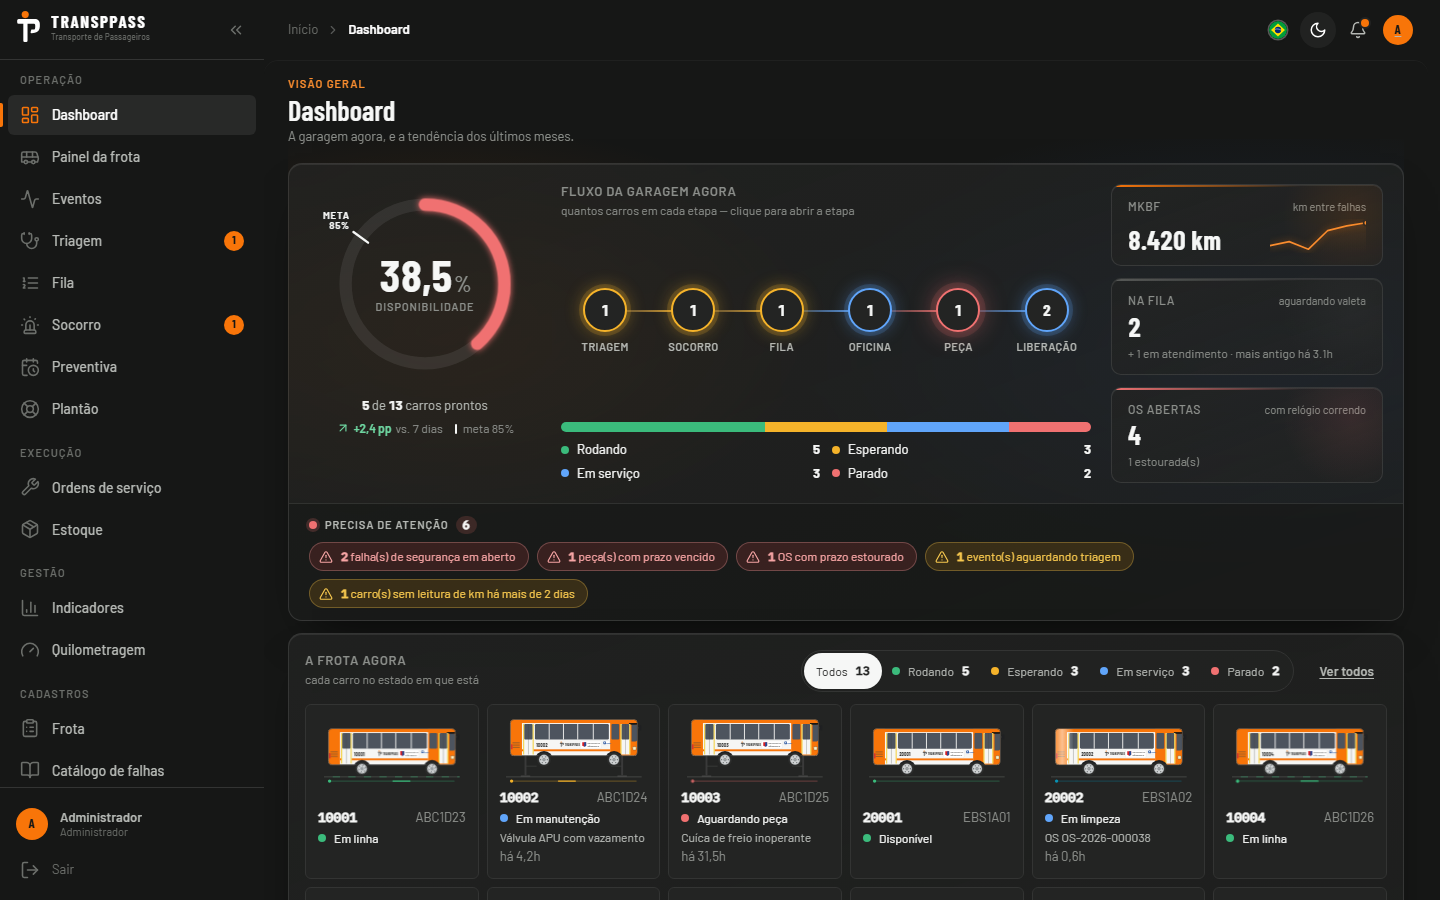
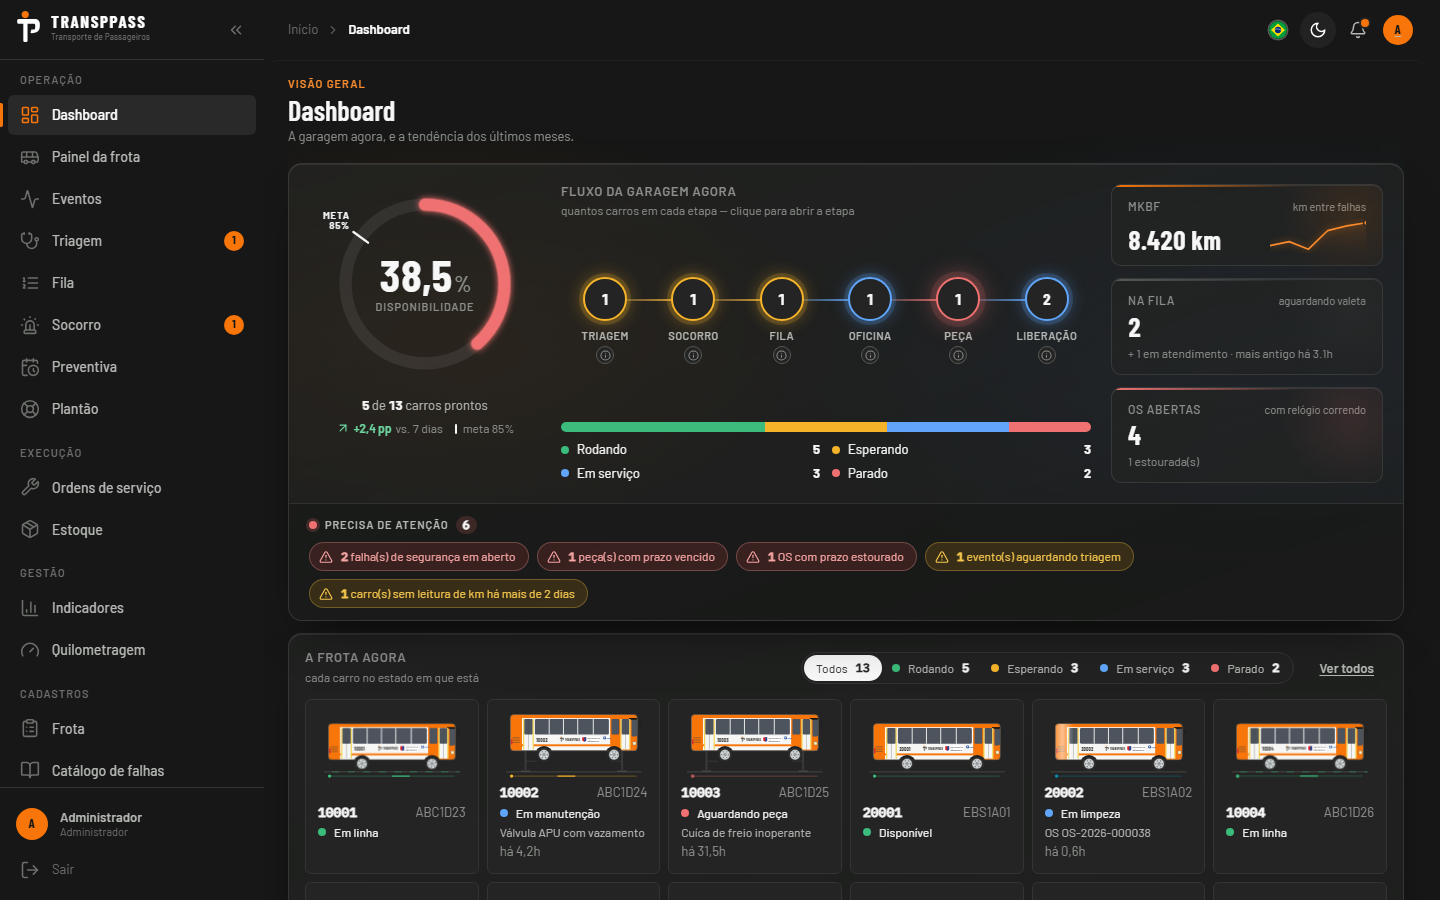
Dashboard: tooltip "i" sob cada etapa do fluxo da garagem
Cada etapa (Triagem, Socorro, Fila, Oficina, Peça, Liberação) ganha um
gatilho circular "i" abaixo do rótulo. No hover ou no foco de teclado
abre um painel com o nome da etapa na cor da família, quantos carros
estão nela agora, a explicação do que a etapa significa, os estados que
ela agrupa e o lembrete de que o número abre a tela. No toque, o clique
fixa e solta; Esc fecha. Painel ligado ao gatilho por aria-describedby.

Componente reutilizável InfoTip (components/ui/info-tip.tsx) com
alinhamento start/center/end; nas pontas do fluxo o painel cresce para
dentro, e no celular (3 colunas) o alinhamento segue a coluna. O herói
sobe um nível de empilhamento para o painel passar sobre os cards.

Botões do kit herdavam min-height 36px: gatilho "i" e legenda da frota
zeram esse mínimo. QA de UI: 77 verificações (DASH-07 cobre o tooltip).

diff --git a/apps/web/src/styles.css b/apps/web/src/styles.css
@@ -1179,6 +1179,8 @@ small.muted {
 /* ---- Painel de cima ---------------------------------------------------- */
 
 .dash-hero {
+  position: relative;
+  z-index: 1; /* os tooltips do fluxo passam por cima dos cards abaixo */
   display: grid;
   grid-template-columns: 232px minmax(0, 1fr) 272px;
   gap: var(--tp-space-5);
@@ -1404,6 +1406,166 @@ small.muted {
 }
 
 .dash-flow__stage.is-active .dash-flow__label { color: var(--color-text-secondary); }
+
+/* Tooltip de informação — gatilho "i" + painel explicativo */
+.tp-tip {
+  position: relative;
+  display: inline-grid;
+  justify-items: center;
+}
+
+.tp-tip__trigger {
+  display: grid;
+  place-items: center;
+  width: 18px;
+  height: 18px;
+  min-height: 0;
+  padding: 0;
+  border: 1px solid var(--color-border-strong);
+  border-radius: 50%;
+  background: var(--color-surface);
+  color: var(--color-text-muted);
+  cursor: help;
+  transition:
+    color var(--tp-duration-fast),
+    border-color var(--tp-duration-fast),
+    background var(--tp-duration-fast),
+    transform var(--tp-duration-fast) var(--tp-ease);
+}
+
+.tp-tip__trigger:hover:where(:not(:disabled)),
+.tp-tip:focus-within .tp-tip__trigger,
+.tp-tip.is-open .tp-tip__trigger {
+  color: var(--color-surface);
+  border-color: var(--color-text);
+  background: var(--color-text);
+  transform: translateY(-1px);
+}
+
+.tp-tip__trigger:focus-visible {
+  outline: 2px solid var(--color-brand);
+  outline-offset: 2px;
+}
+
+.tp-tip__panel {
+  position: absolute;
+  top: calc(100% + 10px);
+  z-index: var(--tp-z-dropdown);
+  display: grid;
+  gap: var(--tp-space-2);
+  width: 248px;
+  padding: var(--tp-space-3) var(--tp-space-4);
+  border: var(--tp-border-thin) solid var(--color-border);
+  border-radius: var(--tp-radius-lg);
+  background: var(--color-surface);
+  color: var(--color-text);
+  box-shadow: var(--tp-shadow-overlay);
+  font-size: var(--tp-text-xs);
+  line-height: 1.45;
+  text-align: left;
+  text-transform: none;
+  letter-spacing: normal;
+  font-weight: 400;
+  opacity: 0;
+  visibility: hidden;
+  pointer-events: none;
+  transition:
+    opacity var(--tp-duration-normal) var(--tp-ease),
+    transform var(--tp-duration-normal) var(--tp-ease),
+    visibility 0s linear var(--tp-duration-normal);
+}
+
+/* Seta: um quadrado girado, com a mesma borda do painel */
+.tp-tip__panel::before {
+  content: '';
+  position: absolute;
+  top: -6px;
+  width: 10px;
+  height: 10px;
+  border-top: var(--tp-border-thin) solid var(--color-border);
+  border-left: var(--tp-border-thin) solid var(--color-border);
+  background: var(--color-surface);
+  transform: rotate(45deg);
+}
+
+.tp-tip--center .tp-tip__panel { left: 50%; transform: translate(-50%, -6px); }
+.tp-tip--center .tp-tip__panel::before { left: calc(50% - 5px); }
+.tp-tip--start .tp-tip__panel { left: calc(50% - 20px); transform: translate(0, -6px); }
+.tp-tip--start .tp-tip__panel::before { left: 15px; }
+.tp-tip--end .tp-tip__panel { right: calc(50% - 20px); transform: translate(0, -6px); }
+.tp-tip--end .tp-tip__panel::before { right: 15px; }
+
+.tp-tip:hover .tp-tip__panel,
+.tp-tip:focus-within .tp-tip__panel,
+.tp-tip.is-open .tp-tip__panel {
+  opacity: 1;
+  visibility: visible;
+  pointer-events: auto;
+  transition-delay: 80ms, 80ms, 0s;
+}
+
+.tp-tip--center:hover .tp-tip__panel,
+.tp-tip--center:focus-within .tp-tip__panel,
+.tp-tip--center.is-open .tp-tip__panel { transform: translate(-50%, 0); }
+.tp-tip--start:hover .tp-tip__panel,
+.tp-tip--start:focus-within .tp-tip__panel,
+.tp-tip--start.is-open .tp-tip__panel,
+.tp-tip--end:hover .tp-tip__panel,
+.tp-tip--end:focus-within .tp-tip__panel,
+.tp-tip--end.is-open .tp-tip__panel { transform: translate(0, 0); }
+
+.tp-tip__title {
+  display: flex;
+  align-items: center;
+  gap: var(--tp-space-2);
+  font-family: var(--tp-font-display);
+  font-size: var(--tp-text-sm);
+  font-weight: 700;
+  color: var(--color-text);
+}
+
+.tp-tip__dot {
+  width: 8px;
+  height: 8px;
+  border-radius: 50%;
+  background: var(--flow-color, var(--color-brand));
+  box-shadow: 0 0 0 3px color-mix(in srgb, var(--flow-color, var(--color-brand)) 22%, transparent);
+  flex-shrink: 0;
+}
+
+.tp-tip__count {
+  margin-left: auto;
+  font-family: var(--tp-font-mono);
+  font-size: var(--tp-text-2xs);
+  font-weight: 600;
+  color: var(--color-text-secondary);
+  white-space: nowrap;
+}
+
+.tp-tip__body { color: var(--color-text); }
+
+.tp-tip__meta {
+  color: var(--color-text-secondary);
+  font-size: var(--tp-text-2xs);
+}
+
+.tp-tip__foot {
+  margin-top: var(--tp-space-1);
+  padding-top: var(--tp-space-2);
+  border-top: var(--tp-border-thin) solid var(--color-border);
+  color: var(--color-text-muted);
+  font-size: var(--tp-text-2xs);
+  font-weight: var(--tp-weight-semibold);
+  letter-spacing: 0.04em;
+  text-transform: uppercase;
+}
+
+/* No fluxo da garagem, o gatilho fica sob o rótulo da etapa */
+.dash-flow__info { margin-top: calc(var(--tp-space-1) * -1); }
+
+@media (prefers-reduced-motion: reduce) {
+  .tp-tip__panel { transition: none; }
+}
 
 /* KPIs empilhados à direita do painel */
 .dash-hero__kpis {
@@ -1645,6 +1807,21 @@ small.muted {
   .dash-hero__kpis { grid-template-columns: minmax(0, 1fr); }
   .dash-flow { grid-auto-flow: row; grid-template-columns: repeat(3, minmax(0, 1fr)); row-gap: var(--tp-space-4); }
   .dash-flow__rail { display: none; }
+  .dash-flow__stage:nth-child(3n + 1) .tp-tip__panel { left: calc(50% - 20px); right: auto; transform: translate(0, -6px); }
+  .dash-flow__stage:nth-child(3n + 1) .tp-tip__panel::before { left: 15px; right: auto; }
+  .dash-flow__stage:nth-child(3n + 2) .tp-tip__panel { left: 50%; right: auto; transform: translate(-50%, -6px); }
+  .dash-flow__stage:nth-child(3n + 2) .tp-tip__panel::before { left: calc(50% - 5px); right: auto; }
+  .dash-flow__stage:nth-child(3n) .tp-tip__panel { right: calc(50% - 20px); left: auto; transform: translate(0, -6px); }
+  .dash-flow__stage:nth-child(3n) .tp-tip__panel::before { right: 15px; left: auto; }
+  .dash-flow__stage:nth-child(3n + 1) .tp-tip:hover .tp-tip__panel,
+  .dash-flow__stage:nth-child(3n + 1) .tp-tip:focus-within .tp-tip__panel,
+  .dash-flow__stage:nth-child(3n + 1) .tp-tip.is-open .tp-tip__panel,
+  .dash-flow__stage:nth-child(3n) .tp-tip:hover .tp-tip__panel,
+  .dash-flow__stage:nth-child(3n) .tp-tip:focus-within .tp-tip__panel,
+  .dash-flow__stage:nth-child(3n) .tp-tip.is-open .tp-tip__panel { transform: translate(0, 0); }
+  .dash-flow__stage:nth-child(3n + 2) .tp-tip:hover .tp-tip__panel,
+  .dash-flow__stage:nth-child(3n + 2) .tp-tip:focus-within .tp-tip__panel,
+  .dash-flow__stage:nth-child(3n + 2) .tp-tip.is-open .tp-tip__panel { transform: translate(-50%, 0); }
   .dash-gauge__ring { width: 208px; height: 208px; }
   .dash-gauge__value { font-size: 38px; }
 }
@@ -1753,6 +1930,7 @@ small.muted {
   align-items: center;
   gap: var(--tp-space-2);
   height: 26px;
+  min-height: 0;
   padding: 0 var(--tp-space-3) 0 var(--tp-space-2);
   border: 0;
   border-radius: var(--tp-radius-full);

diff --git a/apps/web/src/i18n/dictionaries.ts b/apps/web/src/i18n/dictionaries.ts
@@ -128,6 +128,19 @@ const ptBR = {
     flowTitle: 'Fluxo da garagem agora',
     flowHint: 'quantos carros em cada etapa — clique para abrir a etapa',
     stages: { triage: 'Triagem', field: 'Socorro', queue: 'Fila', shop: 'Oficina', part: 'Peça', release: 'Liberação' },
+    stageHelp: {
+      triage: 'Carro recolhido com falha apontada. O PCM decide se vai para a oficina, se a falha pode ser deferida ou se o carro volta à linha.',
+      field: 'Carro parado na rua ou no ponto final. A equipe de socorro atende no local e decide se ele volta a rodar ou é recolhido.',
+      queue: 'Carro já triado, com OS aberta, aguardando valeta e mecânico livres na oficina.',
+      shop: 'Carro na valeta com serviço em andamento. O relógio da OS está correndo.',
+      part: 'Serviço parado por falta de peça. O carro só volta quando o estoque atender a demanda.',
+      release: 'Serviço concluído. O carro passa por inspeção final e limpeza antes de ser liberado para a operação.',
+    },
+    whatIs: 'O que é',
+    stageStates: 'Estados',
+    stageOpen: 'Clique no número para abrir',
+    carNow: 'carro agora',
+    carsNow: 'carros agora',
     of: 'de',
     readyBuses: 'carros prontos',
     target: 'meta',
@@ -274,6 +287,19 @@ const en: Dictionary = {
     flowTitle: 'Garage flow right now',
     flowHint: 'buses in each stage — click to open the stage',
     stages: { triage: 'Triage', field: 'Roadside', queue: 'Queue', shop: 'Workshop', part: 'Parts', release: 'Release' },
+    stageHelp: {
+      triage: 'Bus pulled in with a reported failure. Planning decides whether it goes to the workshop, the failure is deferred, or the bus returns to service.',
+      field: 'Bus stopped on the street or at the terminal. The roadside crew works on site and decides whether it keeps running or is pulled in.',
+      queue: 'Bus already triaged, with an open work order, waiting for a free bay and mechanic.',
+      shop: 'Bus in the bay with work in progress. The work-order clock is running.',
+      part: 'Work halted for lack of a part. The bus only moves on when stock fills the demand.',
+      release: 'Work done. The bus goes through final inspection and cleaning before being released to operations.',
+    },
+    whatIs: 'What is',
+    stageStates: 'States',
+    stageOpen: 'Click the number to open',
+    carNow: 'bus right now',
+    carsNow: 'buses right now',
     of: 'of',
     readyBuses: 'buses ready',
     target: 'target',

diff --git a/apps/web/src/pages/dashboard-page.tsx b/apps/web/src/pages/dashboard-page.tsx
@@ -15,6 +15,7 @@ import { formatDateTime, formatMinutes, formatNumber } from '@/lib/format';
 import { useI18n } from '@/i18n/i18n.context';
 import { usePageHeader } from '@/components/shell/page-header.context';
 import { BusIllustration } from '@/components/bus/bus-illustration';
+import { InfoTip } from '@/components/ui/info-tip';
 import {
   AvailabilityByHourChart,
   DowntimeDonut,
@@ -334,6 +335,24 @@ function GarageFlow({ byStatus }: { byStatus: Record<VehicleStatus, number> }) {
             <b>{s.n}</b>
           </Link>
           <span className="dash-flow__label">{s.label}</span>
+          <InfoTip
+            label={`${t.dash.whatIs} ${s.label}`}
+            align={i === 0 ? 'start' : i === stages.length - 1 ? 'end' : 'center'}
+            className="dash-flow__info"
+          >
+            <span className="tp-tip__title">
+              <i className="tp-tip__dot" aria-hidden />
+              {s.label}
+              <b className="tp-tip__count">
+                {s.n} {s.n === 1 ? t.dash.carNow : t.dash.carsNow}
+              </b>
+            </span>
+            <span className="tp-tip__body">{t.dash.stageHelp[s.key]}</span>
+            <span className="tp-tip__meta">
+              {t.dash.stageStates}: {s.statuses.map((st) => VEHICLE_STATUS_LABELS[st]).join(' · ')}
+            </span>
+            <span className="tp-tip__foot">{t.dash.stageOpen} {s.label} ↗</span>
+          </InfoTip>
         </li>
       ))}
     </ol>

diff --git a/apps/web/src/components/ui/info-tip.tsx b/apps/web/src/components/ui/info-tip.tsx
@@ -1,0 +1,44 @@
+import { useId, useState, type ReactNode } from 'react';
+import { Info } from 'lucide-react';
+
+interface Props {
+  /** Rótulo acessível do gatilho, ex.: "O que é Triagem". */
+  label: string;
+  /** Para onde o painel cresce em relação ao gatilho. */
+  align?: 'start' | 'center' | 'end';
+  className?: string;
+  children: ReactNode;
+}
+
+/**
+ * Gatilho "i" com painel explicativo. Abre no hover e no foco de teclado;
+ * no toque (sem hover) o clique fixa e solta. Esc fecha. O painel é um
+ * `role="tooltip"` ligado ao gatilho por aria-describedby.
+ */
+export function InfoTip({ label, align = 'center', className, children }: Props) {
+  const id = useId();
+  const [pinned, setPinned] = useState(false);
+  return (
+    <span
+      className={`tp-tip tp-tip--${align}${pinned ? ' is-open' : ''}${className ? ` ${className}` : ''}`}
+      onKeyDown={(e) => {
+        if (e.key === 'Escape') setPinned(false);
+      }}
+    >
+      <button
+        type="button"
+        className="tp-tip__trigger"
+        aria-label={label}
+        aria-describedby={id}
+        aria-expanded={pinned}
+        onClick={() => setPinned((p) => !p)}
+        onBlur={() => setPinned(false)}
+      >
+        <Info size={11} strokeWidth={2.25} aria-hidden />
+      </button>
+      <span role="tooltip" id={id} className="tp-tip__panel">
+        {children}
+      </span>
+    </span>
+  );
+}

diff --git a/README.md b/README.md
@@ -13,7 +13,7 @@ Monorepo React + TypeScript / NestJS, estruturado para que front e back possam s
 | **R2 — Preventiva e Plantão** | E3, E6 — linha do tempo por km, escopo pacote + backlog, kit D-1, equipe, reprogramação com motivo; demanda de reposição, reserva habilitada, retorno ao vivo | **Implementado e validado contra Postgres** (e2e) |
 | Fase 2 | RF-16, RF-40, RF-41 | Fora do MVP |
 
-O schema Prisma cobre **os oito épicos**; todas as telas do MVP existem em `apps/web` e rodam em modo mock. O QA funcional automatizado (`node tools/qa-smoke.mjs`, 76 verificações de UI) e o relatório em [QA.md](QA.md) registram o que foi exercitado.
+O schema Prisma cobre **os oito épicos**; todas as telas do MVP existem em `apps/web` e rodam em modo mock. O QA funcional automatizado (`node tools/qa-smoke.mjs`, 77 verificações de UI) e o relatório em [QA.md](QA.md) registram o que foi exercitado.
 
 > **A API roda contra Postgres e passa no ciclo ponta a ponta.** `npm run test:e2e` (com a API no ar) exercita 78 verificações em `apps/api/test/r1-flow.e2e.ts`: RF-05/06/08, portões e relógio da OS, MKBF, preventiva com travas, plantão com habilitação, planos/kits, snapshots, recuperação de senha e o padrão de codificação de falhas. A primeira rodada real encontrou e corrigiu um bug (lookup de usuário com UUID vazio no detalhe da OS) que o modo mock nunca pegaria.
 

diff --git a/QA.md b/QA.md
@@ -1,6 +1,6 @@
 # Relatório de QA — Transppass PCM (MVP: R0 + R1 + R2)
 
-**Rodada:** 19/10/2026 · **Ambiente:** modo mock (MSW) no Microsoft Edge, sem banco · **Resultado:** 76 verificações funcionais de UI, 76 aprovadas · typecheck, lint e build do monorepo limpos.
+**Rodada:** 19/10/2026 · **Ambiente:** modo mock (MSW) no Microsoft Edge, sem banco · **Resultado:** 77 verificações funcionais de UI, 77 aprovadas · typecheck, lint e build do monorepo limpos.
 
 Este relatório é o que um analista de QA entregaria ao fim da sprint: o que foi testado, como, o que passou, o que foi corrigido no caminho e — mais importante — **o que ainda não foi exercitado** e por quê.
 
